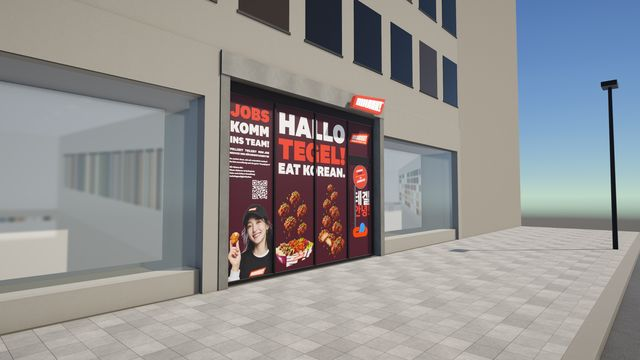
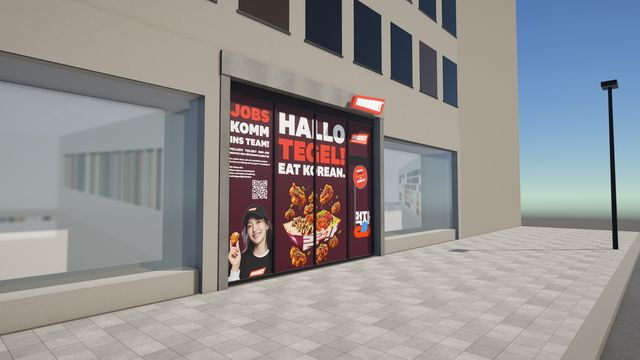
V7: V6 Visual kleiner mit echten Mmaah Bites, 먹자 Wappen auf der Tür

Changed region(s): [[0.4062, 0.4889, 0.5938, 0.7639]]

diff --git a/index.html b/index.html
@@ -61,7 +61,7 @@
 <script>
 const VARS = [
   ["v0", "Ohne Folie", "Die Front ohne Beklebung, innen Rohbau, zum Vergleich."],
-  ["v7", "7 · Hallo Tegel (Korrektur 26.11.)", "<b>Hallo Tegel mit den Änderungen vom 26.11.2026.</b> HALLO, TEGEL!, EAT KOREAN. als Blocktext gleich breit, Jobs ebenso, Food jeweils innerhalb einer Scheibe (Special BBQ Reis mit Bites, daneben Mmaah Bites in Soy Garlic mit Sesam und Schnittlauch, keine Wings), Mitarbeiterin und QR größer, weißes Wallpaper raus, Tür 테겔 안녕! mit Mund."],
+  ["v7", "7 · Hallo Tegel (Korrektur 26.11.)", "<b>Hallo Tegel mit den Änderungen vom 26.11.2026.</b> HALLO, TEGEL!, EAT KOREAN. als Blocktext gleich breit, Jobs ebenso, Mitarbeiterin und QR größer, weißes Wallpaper raus. Food Visual aus V6 kleiner und nur auf den beiden mittleren Scheiben, Wings gegen echte Mmaah Bites mit Soy Garlic Soße, Sesam und Schnittlauch getauscht. Tür: Wappen 먹자 mit Mund unten rechts."],
   ["v6", "6 · Hallo Tegel (Korrektur 25.11.)", "<b>Hallo Tegel mit den Änderungen vom 25.11.2026.</b> Koreanisch 테겔 안녕! neben EAT KOREAN, neues Food Visual mit Soy Garlic Chicken Bites und dem Special BBQ Reis (ohne Kartoffelscheiben), Mitarbeiterin im Jobs Feld hält ein Chicken Bite, Tür EAT KOREAN SINCE 2012 mit Mund, Störer Coming Soon kleiner."],
   ["v5", "5 · Hallo Tegel", "<b>HALLO TEGEL! EAT KOREAN.</b> Großes Food Visual über Feld 2 und 3 (mit Higgsfield aus Schale, Bites Box und BBQ Reis erzeugt), Coming Soon Stempel AB JANUAR schräg auf der Tür, Logo darüber. Links bleibt das Jobs Feld mit QR Code und Mitarbeiterin."],
   ["v1", "1 · Heilbronn Stil", "<b>Wie Heilbronn.</b> Feld 1 Jobs (KOMM INS TEAM!, QR Code, Mitarbeiterin), Feld 2 und 3 Aubergine mit EAT KOREAN IN TEGEL über beide Felder und zwei Schalen, Tür Logo, Hand mit Chicken Bite und Mund, über der Tür AB JANUAR."],
